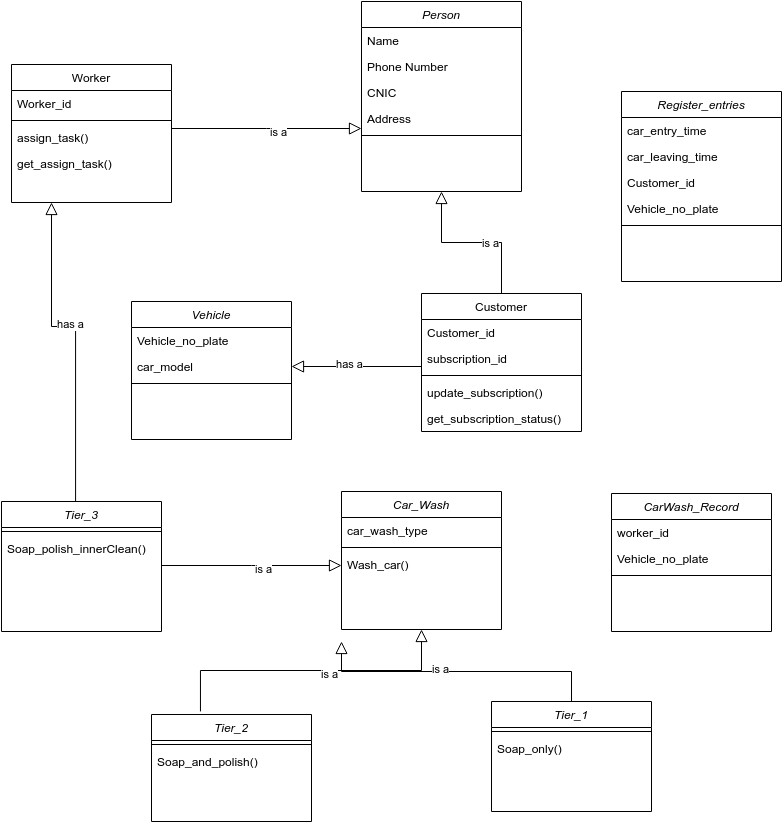
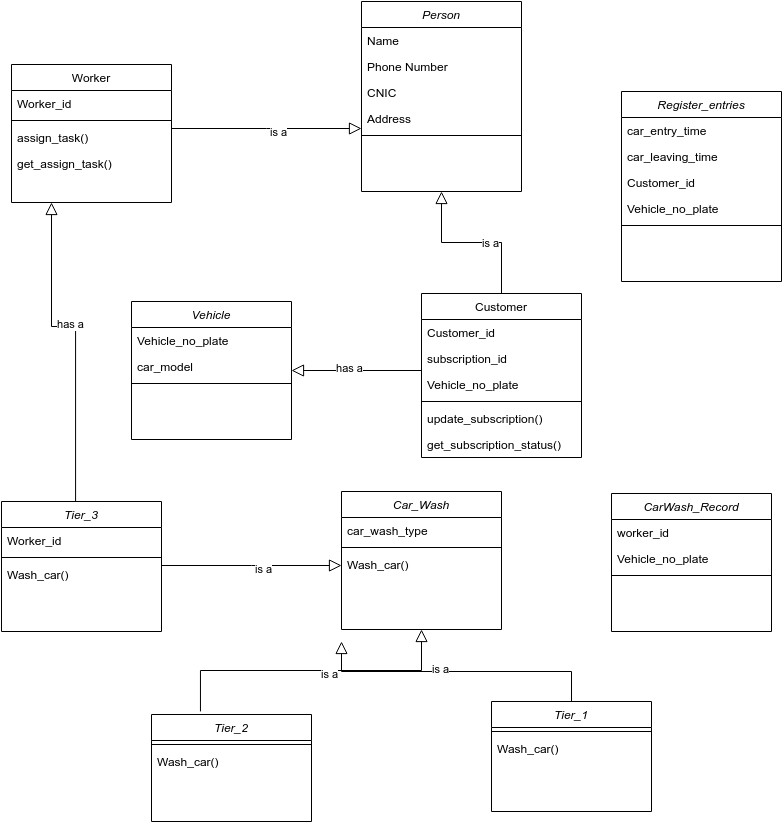
updated files added

diff --git a/main.py b/main.py
@@ -1,10 +1,10 @@
-from Customer import Customer
-from Worker import Worker
-from Register_entries import Register_entries
-from Tier_1 import Tier_1
-from Tier_2 import Tier_2
-from Tier_3 import Tier_3 
-from CarWash_Record import CarWash_Record
+from customer import Customer
+from worker import Worker
+from register_entries import RegisterEentries
+from tier1 import Tier1
+from tier2 import Tier2
+from tier3 import Tier3 
+from car_wash_record import CarWashRecord
   
 def main():
    
@@ -30,15 +30,15 @@ def main():
         customer.Vehicle.car_model = "Car Model for " + customer.Customer_Id
 
     
-    register_entries = [Register_entries(car_entry_time="10:00 AM", car_leaving_time="11:00 AM", customer=cust) for cust in customers]
+    register_entries = [RegisterEentries(car_entry_time="10:00 AM", car_leaving_time="11:00 AM", customer=cust) for cust in customers]
 
    
-    car_wash_records = [CarWash_Record(worker=workers[i % len(workers)], vehicle=customers[i % len(customers)].Vehicle) for i in range(len(customers))]
+    car_wash_records = [CarWashRecord(worker=workers[i % len(workers)], vehicle=customers[i % len(customers)].Vehicle) for i in range(len(customers))]
 
     
-    tier1_wash = Tier_1(car_wash_type="Tier 1")
-    tier2_wash = Tier_2(car_wash_type="Tier 2")
-    tier3_washes = [Tier_3(car_wash_type="Tier 3", worker=workers[i % len(workers)]) for i in range(len(customers))]
+    tier1_wash = Tier1(car_wash_type="Tier 1")
+    tier2_wash = Tier2(car_wash_type="Tier 2")
+    tier3_washes = [Tier3(car_wash_type="Tier 3", worker=workers[i % len(workers)]) for i in range(len(customers))]
 
     
     for worker in workers:
@@ -83,16 +83,16 @@ def main():
 
         elif choice == '5':
 
-            print(tier1_wash.Wash_Car())
+            print(tier1_wash.wash_car())
 
         elif choice == '6':
 
-            print(tier2_wash.Wash_Car())
+            print(tier2_wash.wash_car())
 
         elif choice == '7':
 
             for wash in tier3_washes:
-                print(wash.Wash_Car())
+                print(wash.wash_car())
 
         elif choice == '8':
 

diff --git a/tier3.py b/tier3.py
@@ -1,10 +1,10 @@
-from Car_Wash import Car_Wash
+from car_wash import CarWash
 
-class Tier_3(Car_Wash):
+class Tier3(CarWash):
     def __init__(self, car_wash_type, worker):
         super().__init__(car_wash_type)
         self.worker = worker
 
-    def Wash_Car(self):
+    def wash_car(self):
         return f"Soap + polish + inner clean car wash performed by {self.worker.Name}"
 

diff --git a/Customer.py b/Customer.py
@@ -1,5 +1,5 @@
-from Person import Person 
-from Vehicle import Vehicle
+from person import Person 
+from vehicle import Vehicle
 
 class Customer(Person):
     def __init__(self, Name, Phone_Number, CNIC, Address, Customer_Id, subscription_Id, Vehicle_no_plate):

diff --git a/Register_entries.py b/Register_entries.py
@@ -1,4 +1,4 @@
-class Register_entries:
+class RegisterEentries:
     def __init__(self, car_entry_time, car_leaving_time, customer):
         self.car_entry_time = car_entry_time
         self.car_leaving_time = car_leaving_time

diff --git a/Car_Wash.py b/Car_Wash.py
@@ -1,7 +1,7 @@
-class Car_Wash:
+class CarWash:
     def __init__(self, car_wash_type):
         self.car_wash_type = car_wash_type
 
-    def Wash_Car(self):
+    def wash_car(self):
         return "Washing car"
 

diff --git a/Worker.py b/Worker.py
@@ -1,4 +1,4 @@
-from Person import Person
+from person import Person
 
 class Worker(Person):
     def __init__(self, Name, Phone_Number, CNIC, Address, Worker_Id):

diff --git a/car_wash_record.py b/car_wash_record.py
@@ -1,4 +1,4 @@
-class CarWash_Record:
+class CarWashRecord:
     def __init__(self, worker, vehicle):
         self.worker = worker
         self.vehicle = vehicle

diff --git a/tier2.py b/tier2.py
@@ -1,0 +1,5 @@
+from car_wash import CarWash
+
+class Tier2(CarWash):
+    def wash_car(self):
+        return f"Soap and polish car wash performed!"

diff --git a/tier1.py b/tier1.py
@@ -1,0 +1,5 @@
+from car_wash import CarWash
+
+class Tier1(CarWash):
+    def wash_car(self):
+        return f"Soap only car wash performed!"
